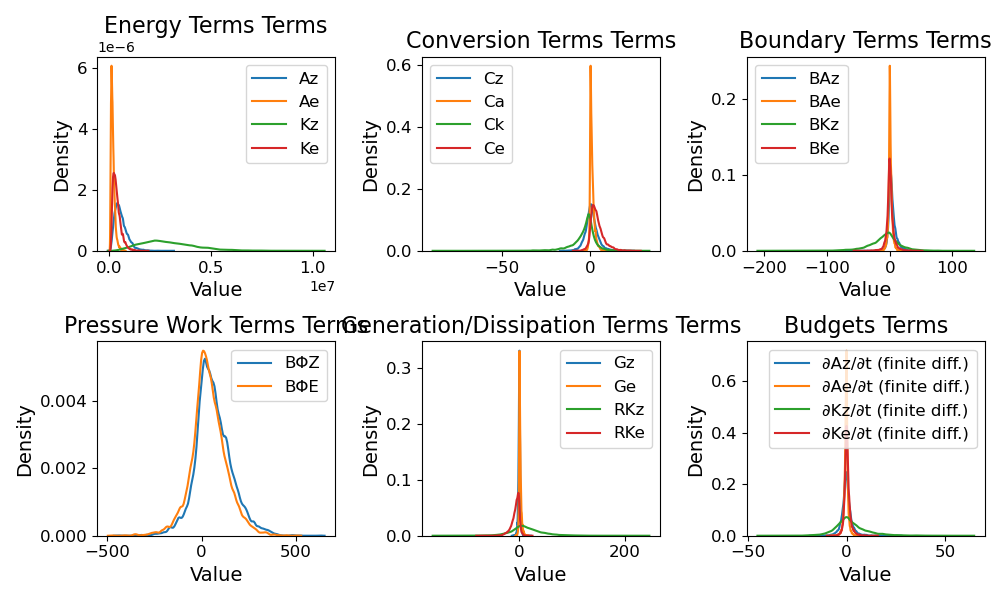
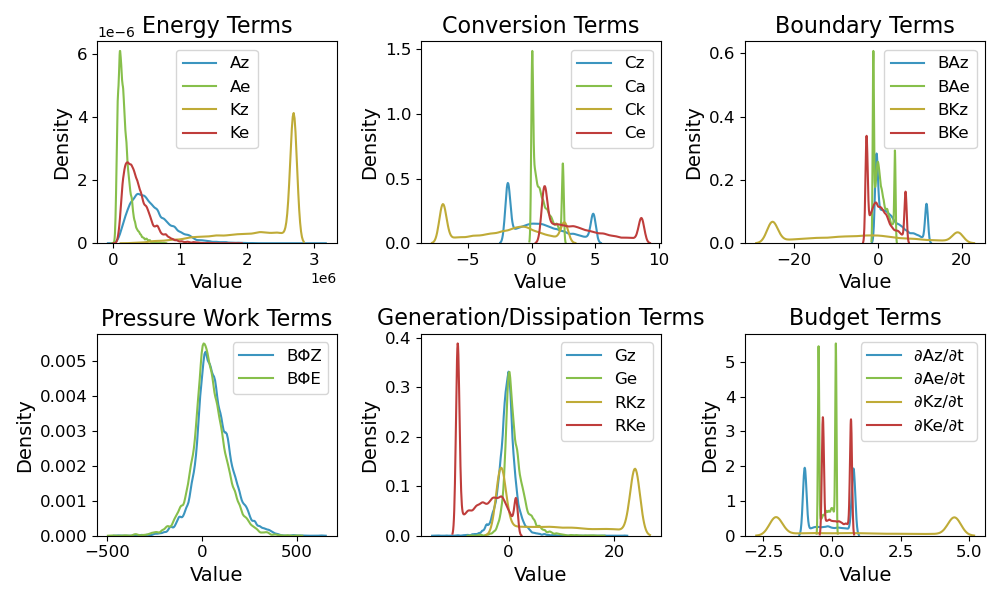
Updated figure

diff --git a/manuscript_lec_climatology/pdfs.py b/manuscript_lec_climatology/pdfs.py
@@ -6,7 +6,7 @@
 #    By: daniloceano <danilo.oceano@gmail.com>      +#+  +:+       +#+         #
 #                                                 +#+#+#+#+#+   +#+            #
 #    Created: 2024/02/29 14:56:47 by daniloceano       #+#    #+#              #
-#    Updated: 2024/09/22 21:32:16 by daniloceano      ###   ########.fr        #
+#    Updated: 2024/09/23 12:20:16 by daniloceano      ###   ########.fr        #
 #                                                                              #
 # **************************************************************************** #
 
@@ -32,6 +32,26 @@ COLOR_PHASES = {
     'mature 2': '#9b2226',
     'decay': '#9aa981',
     'decay 2': '#386641',
+}
+
+COLOR_TERMS = ["#3B95BF", "#87BF4B", "#BFAB37", "#BF3D3B", "#873e23", "#A13BF0"]
+
+quantile_caps = {
+    'Kz': (0, 0.5),
+    'Cz': (0.2, 0.9),
+    'Ck': (0.2, 0.9),
+    'Ca': (0.2, 0.9),
+    'Ce': (0.2, 0.9),
+    'BAz': (0.2, 0.9),
+    'BAe': (0.2, 0.9),
+    'BKz': (0.2, 0.9),
+    'BKe': (0.2, 0.9),
+    'RKz': (0.3, 0.7),
+    'RKe': (0.3, 0.95),
+    '∂Ke/∂t (finite diff.)': (0.3, 0.7),
+    '∂Kz/∂t (finite diff.)': (0.3, 0.7),
+    '∂Az/∂t (finite diff.)': (0.3, 0.7),
+    '∂Ae/∂t (finite diff.)': (0.3, 0.7),
 }
 
 # Global variables for font sizes
@@ -101,7 +121,7 @@ def plot_group_panel(systems_energetics, groups, output_directory):
     fig, axes = plt.subplots(2, 3, figsize=(10, 6))
 
     # Get the terms for the group
-    terms = [term for term in mean_data.columns if term not in ['system_id']]
+    terms = systems_energetics[list(systems_energetics.keys())[0]].drop(columns=['Unnamed: 0']).columns.to_list()
 
     # Group the terms using the prefixes
     term_groups = {}
@@ -130,12 +150,20 @@ def plot_group_panel(systems_energetics, groups, output_directory):
         mean_data_melted = mean_data.melt(id_vars=['system_id'], var_name='Term', value_name='Value')
         
         # Plot the terms for the group
-        for term in term_groups[group_name]:
+        for idy, term in enumerate(term_groups[group_name]):
             term_data = mean_data_melted[mean_data_melted['Term'] == term]
+
+            # Apply value capping based on quantiles if the term has specified caps
+            if term in quantile_caps.keys():
+                q1, q2 = quantile_caps[term]
+                lower_cap = term_data['Value'].quantile(q1)
+                upper_cap = term_data['Value'].quantile(q2)
+                term_data['Value'] = term_data['Value'].clip(lower=lower_cap, upper=upper_cap)
+
             if not term_data.empty:
-                sns.kdeplot(data=term_data, x='Value', label=term, ax=ax, bw_adjust=0.5)
+                sns.kdeplot(data=term_data, x='Value', label=term.split('(finite diff.)')[0], ax=ax, bw_adjust=0.5, fill=False, color=COLOR_TERMS[idy])
         
-        ax.set_title(f'{group_name} Terms', fontsize=TITLE_FONT_SIZE)
+        ax.set_title(f'{group_name}', fontsize=TITLE_FONT_SIZE)
         ax.set_xlabel('Value', fontsize=LABEL_FONT_SIZE)
         ax.set_ylabel('Density', fontsize=LABEL_FONT_SIZE)
         ax.legend(fontsize=LEGEND_FONT_SIZE)
@@ -146,7 +174,7 @@ def plot_group_panel(systems_energetics, groups, output_directory):
     combined_plot_path = os.path.join(output_directory, combined_plot_filename)
     plt.savefig(combined_plot_path)
     plt.close()
-    print(f"Saved combined plot as {combined_plot_filename} in {output_directory}")
+    print(f"Saved combined plot with capping as {combined_plot_filename} in {output_directory}")
 
 def plot_ridge_group_phases(systems_energetics, group_name, terms_prefix, output_directory, special_case=None):
     value_cap = compute_group_caps(systems_energetics, terms_prefix, special_case=special_case)
@@ -207,7 +235,7 @@ if __name__ == "__main__":
         'Boundary Terms': ['BA', 'BK'],
         'Pressure Work Terms': ['BΦ'],
         'Generation/Dissipation Terms': ['G', 'RK'],
-        'Budgets': ['∂']
+        'Budget Terms': ['∂']
     }
 
     plot_group_panel(systems_energetics, groups, output_directory)
@@ -218,7 +246,7 @@ if __name__ == "__main__":
         'Conversion Terms': ['C'],
         'Boundary Terms': ['B'],
         'Generation/Dissipation Terms': ['G', 'R'],
-        'Budgets': ['∂']
+        'Budget': ['∂']
     }
 
     # for group_name, terms_prefix in groups.items():
